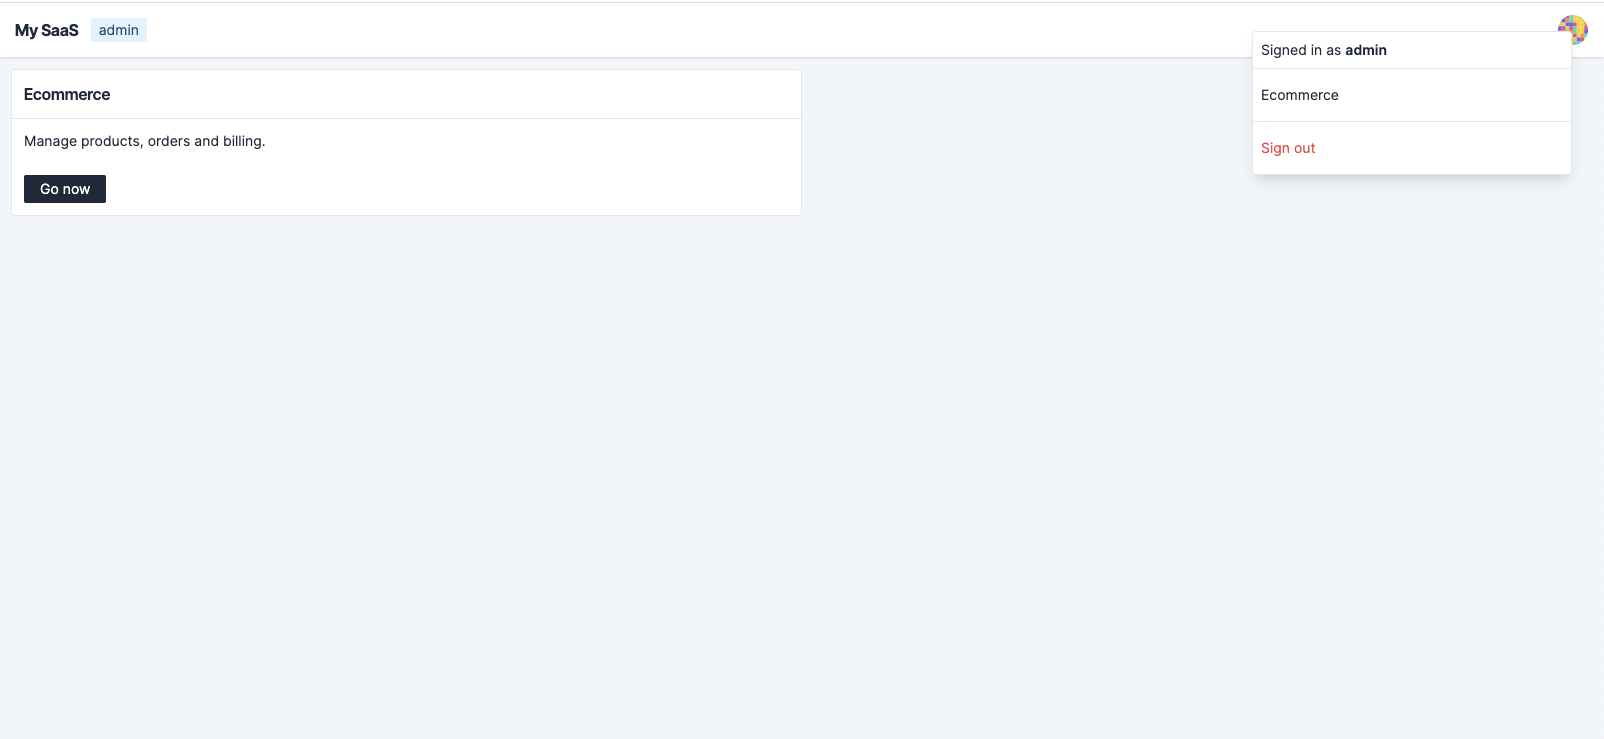
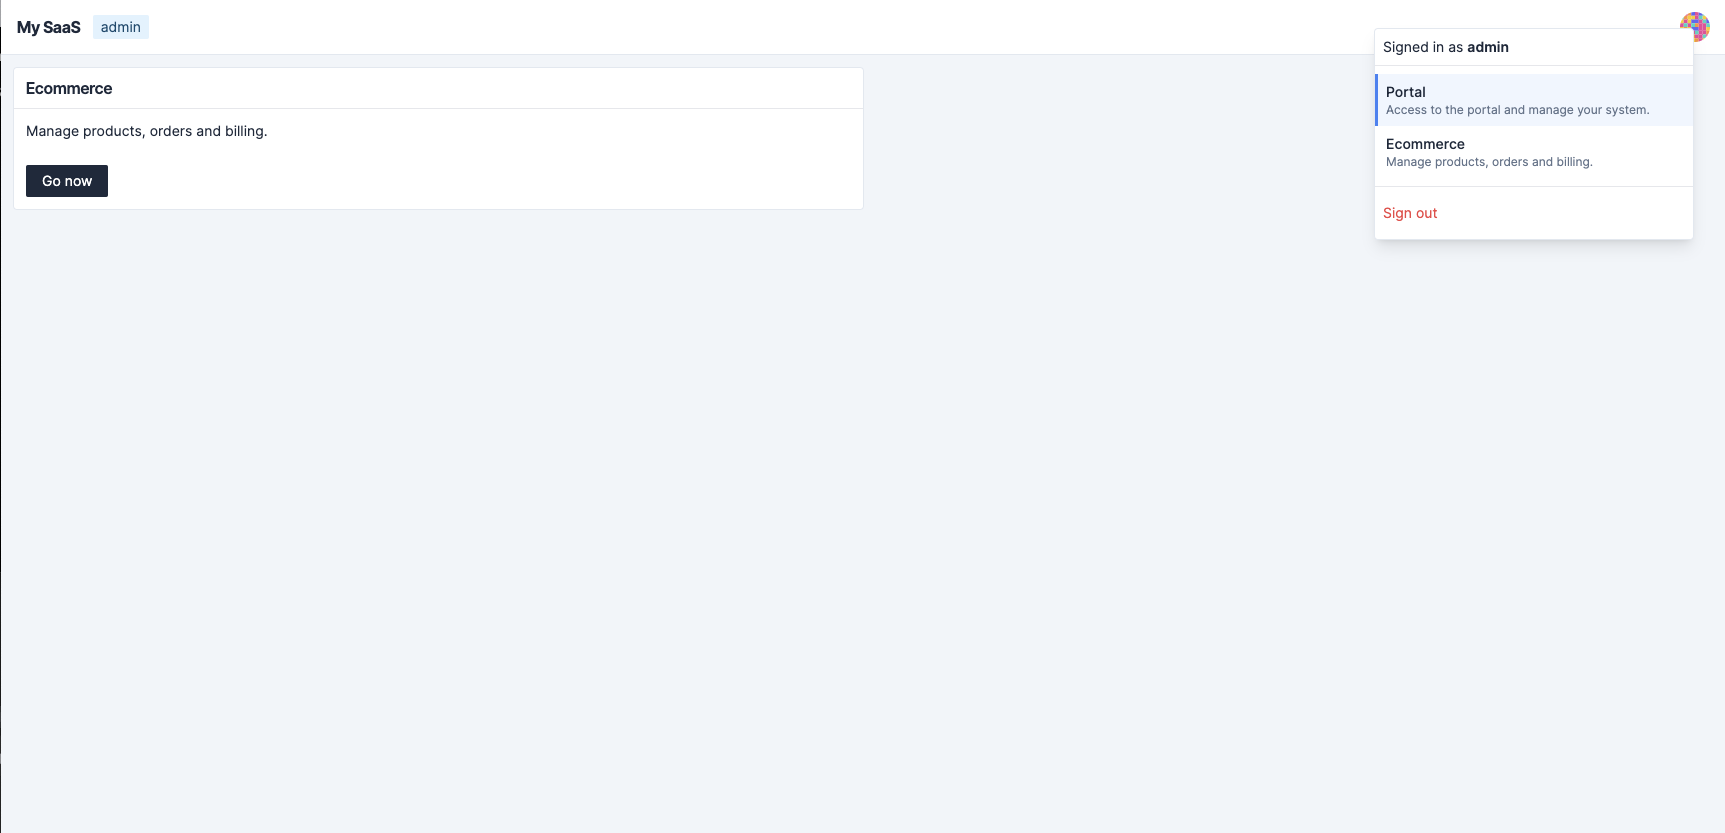
feature: add spa links

diff --git a/Apps/MySaaS/Frontend/admin/src/core/context/common/ui/user/avatar-menu/main.tsx b/Apps/MySaaS/Frontend/admin/src/core/context/common/ui/user/avatar-menu/main.tsx
@@ -1,63 +1,69 @@
-import { Component, Show, createSignal, onCleanup } from "solid-js";
+import { Component, JSX, Show, children, createSignal, onCleanup } from "solid-js";
 
 interface AvatarMenuProps {
     size: number;
     colors: string[];
+    header: JSX.Element;
+    body: JSX.Element;
+    footer: JSX.Element;
+}
+
+const enum AvatarMenuDropdownStatus {
+    CLOSED,
+    OPENED,
 }
 
 export const AvatarMenu: Component<AvatarMenuProps> = (props) => {
     let elementRef: HTMLDivElement;
 
-    let processedColors = props.colors.join(",").replace(/#/g, "");
-    let url = new URL("https://source.boringavatars.com");
-    url.pathname = `/pixel/${props.size}/${Date.now()}`;
-    url.searchParams.set("colors", processedColors);
+    let AvatarMenuDropdownHeader = children(() => props.header);
+    let AvatarMenuDropdownBody = children(() => props.body);
+    let AvatarMenuDropdownFooter = children(() => props.footer);
 
-    const [showAvatarDropdownMenu, setShowAvatarDrodownMenu] = createSignal<boolean>(false);
+    const [avatarDropdownMenuStatus, setAvatarDrodownMenuStatus] = createSignal<AvatarMenuDropdownStatus>(
+        AvatarMenuDropdownStatus.CLOSED
+    );
 
     function handleOutSideClickEvent(ev: Event): void {
         if (!elementRef.contains(ev.target as Node)) {
-            if (showAvatarDropdownMenu()) {
-                setShowAvatarDrodownMenu(false);
+            if (avatarDropdownMenuStatus() === AvatarMenuDropdownStatus.OPENED) {
+                setAvatarDrodownMenuStatus(AvatarMenuDropdownStatus.CLOSED);
             }
         }
     }
 
     document.body.addEventListener("click", handleOutSideClickEvent);
+
     onCleanup(() => document.body.removeEventListener("click", handleOutSideClickEvent));
 
     return (
         <div ref={elementRef} class="relative grid place-content-center">
             <button
-                onClick={() => setShowAvatarDrodownMenu(true)}
+                onClick={() => setAvatarDrodownMenuStatus(AvatarMenuDropdownStatus.OPENED)}
                 class="active:ring-pink-500 rounded-full ring ring-transparent hover:ring-teal-500 hover:ring-offset-2 transition-all duration-150 ease-in-out motion-reduce:transition-none"
             >
-                <img width={props.size} height={props.size} src={url.toString()} />
+                <img width={props.size} height={props.size} src={composeAvatarImageUrl(props.size, props.colors)} />
             </button>
 
-            <Show when={showAvatarDropdownMenu()}>
+            <Show when={avatarDropdownMenuStatus() === AvatarMenuDropdownStatus.OPENED}>
                 <div class="absolute bg-white w-80 h-auto right-4 top-4 rounded shadow-lg text-sm border border-slate-200">
                     <div class="grid">
-                        <div class="p-2">
-                            <span>
-                                Signed in as <span class="font-semibold">admin</span>
-                            </span>
-                        </div>
-
+                        <AvatarMenuDropdownHeader />
                         <hr />
-
-                        <div class="py-2">
-                            <button class="w-full p-2 hover:bg-slate-100 active:bg-slate-200 text-left">Ecommerce</button>
-                        </div>
-
+                        <AvatarMenuDropdownBody />
                         <hr />
-
-                        <div class="py-2">
-                            <button class="w-full p-2 hover:bg-red-100 active:bg-red-200 text-red-500 text-left">Sign out</button>
-                        </div>
+                        <AvatarMenuDropdownFooter />
                     </div>
                 </div>
             </Show>
         </div>
     );
 };
+
+function composeAvatarImageUrl(size: number, colors: string[]): string {
+    let processedColors = colors.join(",").replace(/#/g, "");
+    let url = new URL("https://source.boringavatars.com");
+    url.pathname = `/pixel/${size}/${Date.now()}`;
+    url.searchParams.set("colors", processedColors);
+    return url.toString();
+}

diff --git a/Apps/MySaaS/Frontend/admin/src/core/context/common/ui/layout/top-bar/main.tsx b/Apps/MySaaS/Frontend/admin/src/core/context/common/ui/layout/top-bar/main.tsx
@@ -1,4 +1,5 @@
-import { Component } from "solid-js";
+import { Component, For } from "solid-js";
+import { useLocation, useNavigate, A as Link } from "@solidjs/router";
 
 import { AvatarMenu } from "../../user/avatar-menu/main";
 
@@ -9,17 +10,70 @@ const literals = {
 export const LayoutTopBar: Component = () => {
     let navElementRef: HTMLElement;
 
+    let navigate = useNavigate();
+    let location = useLocation();
+
+    let avatarDropdownMenuItems = [
+        {
+            title: "Portal",
+            description: "Access to the portal and manage your system.",
+            path: "/",
+        },
+        {
+            title: "Ecommerce",
+            description: "Manage products, orders and billing.",
+            path: "/ecommerce",
+        },
+    ];
+
     return (
         <>
-            <nav ref={navElementRef} class="sticky top-0 bg-white shadow">
+            <nav ref={navElementRef} class="sticky top-0 bg-white border-b border-slate-200">
                 <div class="px-4 py-3 flex justify-between items-center">
                     <div class="flex justify-center items-center gap-3">
-                        <span class="font-tight font-bold">{literals.brand}</span>
+                        <Link href="/">
+                            <span class="font-tight font-bold">{literals.brand}</span>
+                        </Link>
 
                         <div class="text-sm rounded-sm bg-sky-100 text-sky-900 px-2 py-0.5">admin</div>
                     </div>
 
-                    <AvatarMenu size={30} colors={["#2dd4bf", "#facc15", "#fb923c", "#ec4899", "#6366f1"]} />
+                    <AvatarMenu
+                        size={30}
+                        colors={["#2dd4bf", "#facc15", "#fb923c", "#ec4899", "#6366f1"]}
+                        header={
+                            <div class="p-2">
+                                <span>
+                                    Signed in as <span class="font-semibold">admin</span>
+                                </span>
+                            </div>
+                        }
+                        body={
+                            <div class="py-2">
+                                <For each={avatarDropdownMenuItems}>
+                                    {(item) => (
+                                        <Link href={item.path}>
+                                            <div
+                                                data-active={location.pathname === item.path}
+                                                class="border-l-[3px] border-transparent w-full p-2 hover:bg-slate-100 active:bg-slate-200 text-left grid data-[active=true]:border-blue-500 data-[active=true]:bg-blue-50 data-[active=true]:hover:bg-blue-50"
+                                                onClick={() => navigate(item.path)}
+                                            >
+                                                <span class="font-medium">{item.title}</span>
+                                                <span class="text-xs text-slate-500">{item.description}</span>
+                                            </div>
+                                        </Link>
+                                    )}
+                                </For>
+                            </div>
+                        }
+                        footer={
+                            <div class="py-2">
+                                <button class="w-full p-2 hover:bg-red-50 active:bg-red-100 text-red-500 text-left">
+                                    Sign out
+                                </button>
+                            </div>
+                        }
+                    />
                 </div>
             </nav>
         </>

diff --git a/Apps/MySaaS/Frontend/admin/src/core/view/index.page.tsx b/Apps/MySaaS/Frontend/admin/src/core/view/index.page.tsx
@@ -7,7 +7,7 @@ const IndexPage: Component = () => {
     return (
         <div class="grid md:grid-cols-2">
             <article class="bg-white rounded border border-slate-200 hover:border-slate-300">
-                <header class="p-3">
+                <header class="px-3 py-2">
                     <span class="font-tight font-semibold">Ecommerce</span>
                 </header>
 
@@ -19,7 +19,7 @@ const IndexPage: Component = () => {
 
                 <footer class="p-3">
                     <button
-                        class="bg-slate-800 text-white px-4 py-1 text-sm rounded-sm hover:bg-slate-700 active:bg-slate-900"
+                        class="bg-slate-800 text-white px-4 py-1.5 text-sm rounded-sm hover:bg-slate-700 active:bg-slate-900"
                         onClick={() => navigate("/ecommerce")}
                     >
                         Go now
